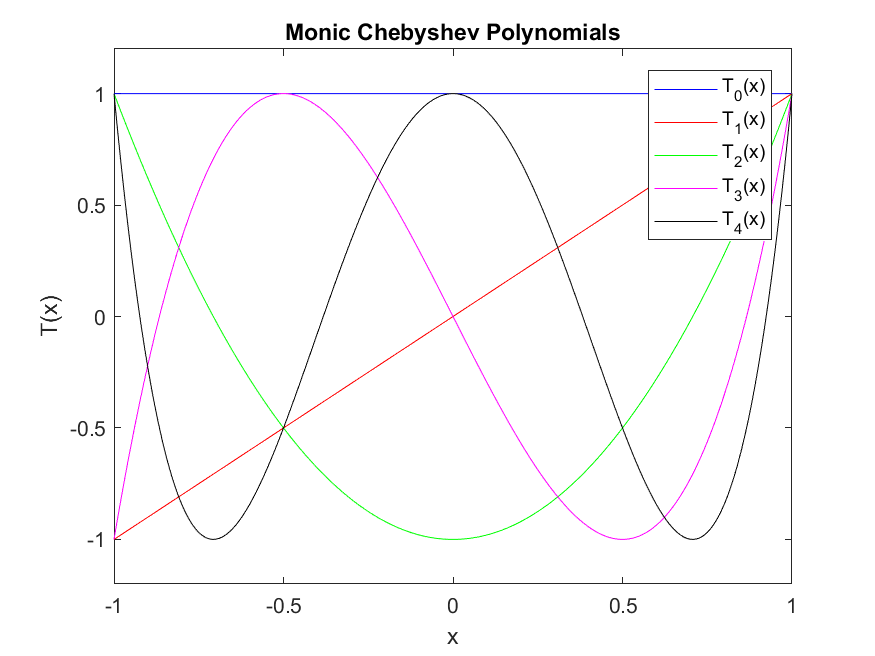
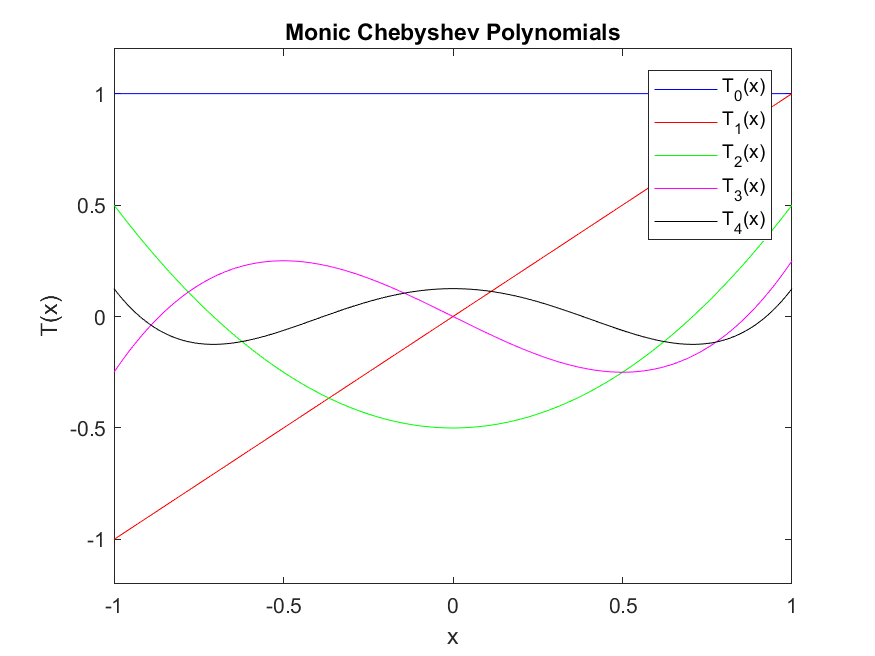
Updated to monic chebshev, accidentally plotted regular chebyshev

diff --git a/hw5/monic_chebyshev.m b/hw5/monic_chebyshev.m
@@ -10,9 +10,9 @@ x=-1:.01:1;
 
 T0 = x.^0;
 T1 = x;
-T2 = (2*(x.^2)) - 1;
-T3 = (4*(x.^3)) - (3.*x);
-T4 = (8*(x.^4)) - (8*(x.^2)) + 1;
+T2 = (x.^2) - 0.5;
+T3 = (x.^3) - (0.75*x);
+T4 = (x.^4) - (x.^2) + 1/8;
 
 plot(x,T0,'b'); hold on
 plot(x,T1,'r');
